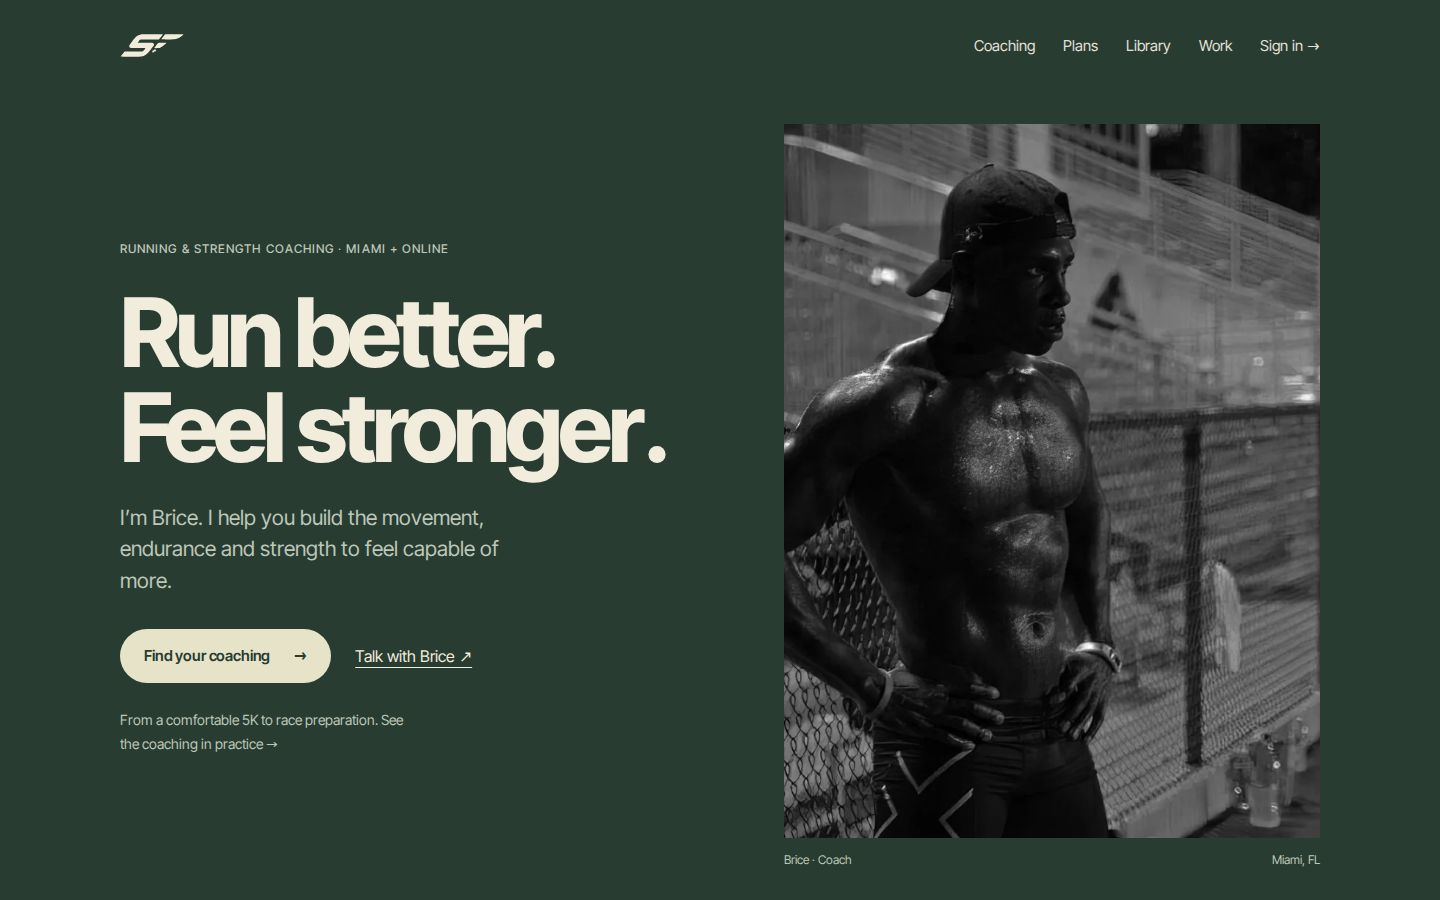
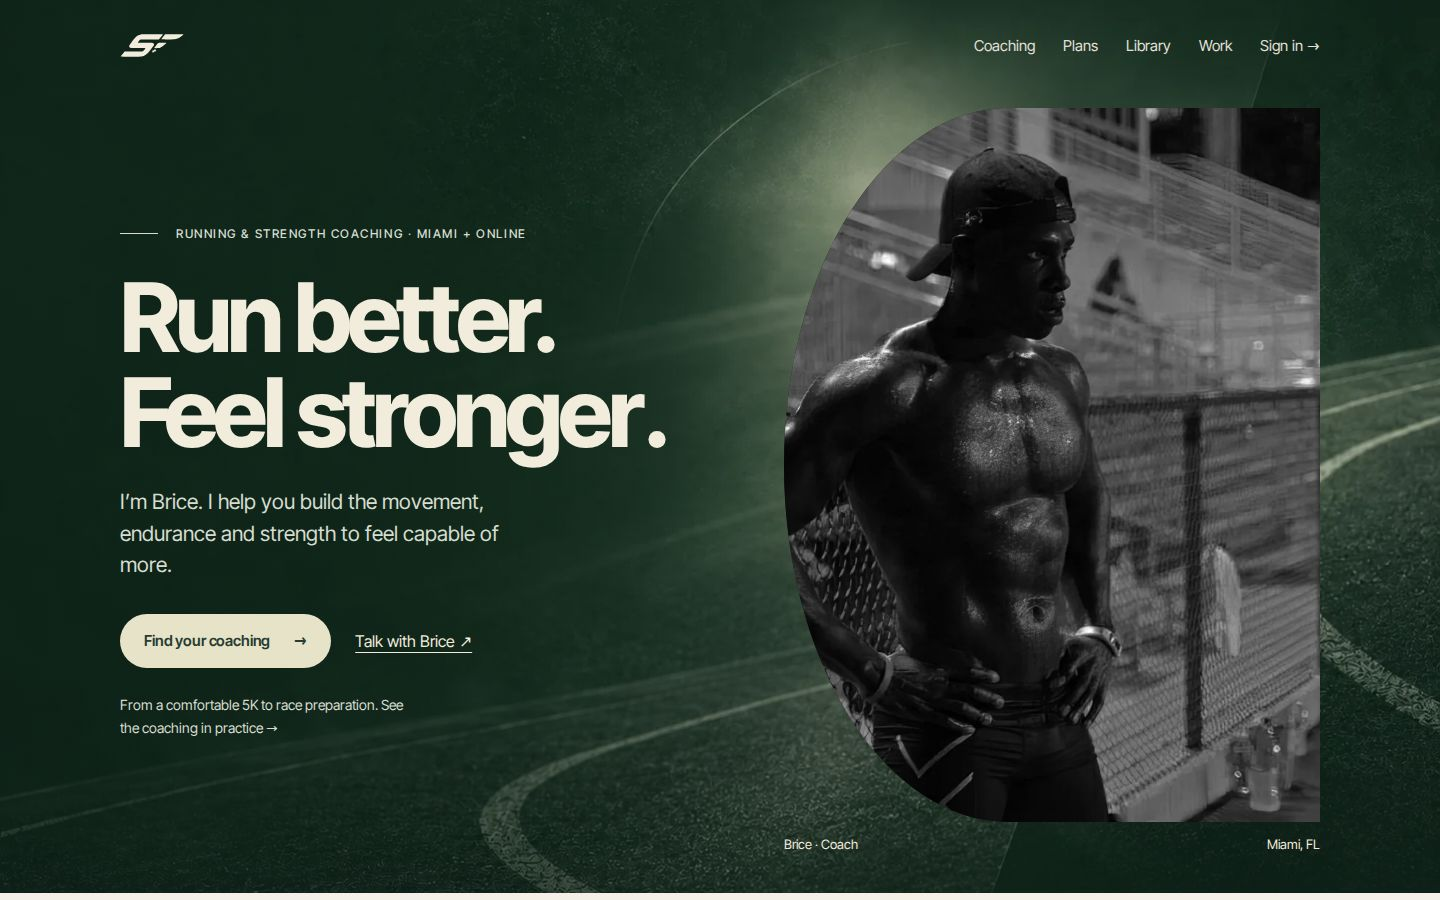
Add supplied track atmosphere and curved original portrait

diff --git a/index.html b/index.html
@@ -11,6 +11,7 @@
 <link rel="apple-touch-icon" href="/apple-touch-icon.png">
 <meta name="theme-color" content="#283c32">
 <link rel="preload" as="image" href="/assets/home/practice/coaching-track.webp" fetchpriority="high">
+<link rel="preload" as="image" href="/assets/home/forest-track-20261001.webp">
 <link rel="preload" as="font" type="font/woff2" href="/assets/site/fonts/inter-tight-latin-variable.woff2" crossorigin>
 <!-- FORM share metadata: pass 1 -->
 <meta property="og:type" content="website">
@@ -105,11 +106,12 @@
 <link rel="stylesheet" href="/css/coaching-choice.css?v=20260916-picker">
 <script defer src="/js/coaching-measurement.js?v=20260930"></script>
 <link rel="stylesheet" href="/css/sf-brand.css?v=20261001">
-<link rel="stylesheet" href="/css/home-commercial.css?v=20261001">
+<link rel="stylesheet" href="/css/home-commercial.css?v=20261001-track">
 <script defer src="/js/commercial-inquiry.js?v=20260930"></script>
 </head>
 <body data-coaching-copy="20260927-gait-retraining">
 <a class="skip-link" href="#main-content">Skip to content</a>
+<div class="home-opening">
 <header class="header">
   <div class="wrap header-inner">
     <a href="/" class="sf-brand" aria-label="Speed and Form home"></a>
@@ -129,9 +131,10 @@
       <div class="hero-actions"><a href="#coaching" class="begin">Find your coaching <span aria-hidden="true">→</span></a><a class="home-hero-secondary" href="#begin">Talk with Brice ↗</a></div>
       <p class="home-hero-note">From a comfortable 5K to race preparation. <a href="/coaching/miami/#coaching-examples">See the coaching in practice →</a></p>
     </div>
-    <figure class="home-hero-photo"><div class="home-portrait"><img src="/assets/home/practice/coaching-track.webp" width="2048" height="1289" alt="Brice standing with his hands on his hips beside the track in Miami" fetchpriority="high"></div><figcaption>Brice · Coach <span>Miami, FL</span></figcaption></figure>
+    <figure class="home-hero-photo"><div class="home-portrait home-portrait-curve"><img src="/assets/home/practice/coaching-track.webp" width="2048" height="1289" alt="Brice standing with his hands on his hips beside the track in Miami" fetchpriority="high"></div><figcaption>Brice · Coach <span>Miami, FL</span></figcaption></figure>
   </div>
 </section>
+</div>
 <section class="home-paths" id="coaching" aria-label="Find your starting point"><div class="wrap home-path-grid"><a href="/coaching/miami/"><span>01 / Running</span><strong>Build your running <b aria-hidden="true">↗</b></strong><small>Individual coaching · Miami &amp; online</small></a><a href="/coaching/strength/"><span>02 / Strength</span><strong>Get stronger with a coach <b aria-hidden="true">↗</b></strong><small>Personal training · Miami</small></a><a href="/analysis/"><span>03 / A focused review</span><strong>Understand your running <b aria-hidden="true">↗</b></strong><small>FORM Analysis · Remote</small></a></div></section>
 
 <section class="practice" id="practice">

diff --git a/css/home-commercial.css b/css/home-commercial.css
@@ -19,3 +19,15 @@
 .header-inner,.header-right,.footer-top{flex-wrap:wrap}
 .hero-actions>a,.cta{max-width:100%}
 .ticks{color:var(--body)}
+
+/* Owner-supplied track atmosphere belongs only to the opening view. */
+.home-opening{background-color:#163023;background-image:linear-gradient(180deg,rgba(12,31,22,.14),rgba(12,31,22,.08) 55%,rgba(12,31,22,.65)),linear-gradient(90deg,rgba(12,31,22,.38),rgba(12,31,22,0) 65%),url('/assets/home/forest-track-20261001.webp');background-size:cover;background-position:center}
+.home-opening .header,.home-opening .sf-home-hero{background:transparent}
+.home-opening .sf-home-hero{padding-top:18px;padding-bottom:38px}
+.home-opening .hero-kicker{display:flex;align-items:center;gap:18px;color:#d6ddd0;letter-spacing:.13em}
+.home-opening .hero-kicker::before{content:"";display:block;width:38px;height:1px;background:currentColor;flex-shrink:0}
+.home-opening .home-hero-intro,.home-opening .home-hero-note{color:#d6ddd0}
+/* A curved left edge, entirely in CSS. Original portrait pixels remain unchanged. */
+.home-portrait-curve{border-top-left-radius:42% 50%;border-bottom-left-radius:42% 50%}
+.home-opening .home-hero-photo figcaption{color:var(--bone);font-size:13px}
+@media(max-width:600px){.home-opening{background-position:58% center;background-image:linear-gradient(180deg,rgba(8,28,18,.82),rgba(8,28,18,.76) 48%,rgba(8,28,18,.22) 65%,rgba(8,28,18,.55)),url('/assets/home/forest-track-20261001.webp')}.home-opening .sf-home-hero{padding-top:20px;padding-bottom:28px}.home-opening .hero-kicker{gap:14px}.home-opening .hero-kicker::before{width:28px}.home-opening .home-hero-photo figcaption{font-size:12px}}

diff --git a/docs/audits/SURFACE-AUDIT-RESULTS.md b/docs/audits/SURFACE-AUDIT-RESULTS.md
@@ -1,6 +1,6 @@
 # October 1, 2026: public house refresh and audit
 
-Owner authorization: publish the approved forest-and-chalk direction and improved Brice portrait crop, with the SF emblem alone in public headers and footers. The offset backing and clipped-corner experiments were rejected. Stronger photographic art direction remains open.
+Owner authorization: publish the approved forest-and-chalk direction and improved Brice portrait crop, with the SF emblem alone in public headers and footers. The offset backing and clipped-corner experiments were rejected. Before publication, Brice supplied a track background and asked to borrow the mockup’s treatment with a curved left edge while preserving the original photograph. This is now the first-fold treatment.
 
 Source base: `be9422c` on `origin/main`, including the concurrent October 1 Adrian and Speed That Endures publications. Release branch: `work/forest-chalk-20261001`. This report records local verification; the release receipt below must be completed after production is inspected.
 
@@ -31,8 +31,14 @@ Source base: `be9422c` on `origin/main`, including the concurrent October 1 Adri
 
 ## Limits and next action
 
-Physical iPhone/Android use is not claimed. Purchases, production inquiry delivery, private Console and native-app flows were not exercised. Public-data schedule behavior was checked with controlled fixtures, not used to invent a current gathering. Photo-edge drama remains a creative follow-up; the rejected treatments are not in this release.
+Physical iPhone/Android use is not claimed. Purchases, production inquiry delivery, private Console and native-app flows were not exercised. Public-data schedule behavior was checked with controlled fixtures, not used to invent a current gathering. The owner’s subsequent track background and CSS curve provide the first-fold treatment. The rejected backing/chamfer and generated portrait are not used.
+
+## First-fold follow-up
+
+Brice’s 9:54 AM New York follow-up supplies the background and asks for a curved left photo edge. The background is optimized from a 2.93 MB PNG to a 105 KB WebP at the same 1448×1086 dimensions. No track content is redrawn; the original portrait remains byte-for-byte unchanged. Header and hero share the background, with a dark overlay behind text. Existing copy, calls to action, account navigation and page order remain. Only the fine kicker rule and curved framing are borrowed from the mockup; extra slogans and the regenerated person are excluded.
+
+The initial phone crop put the bright mist behind the text. A stronger mobile-only overlay fixes that without darkening the desktop composition. Rendered-background sampling under text at 390/1440 px measured minimum contrast of 5.75:1 / 8.07:1 after the fix. Chromium’s complete responsive/inquiry suite passes on the combined build, including 200% text. [Phone first fold](20261001-house/home-phone.jpg) shows the mobile treatment.
 
 ## Release receipt
 
-Pending merge, cross-browser CI and production inspection. Source and screenshots alone are not evidence of publication.
+Base refresh: PR #190 merged as `564e2ed860fd3ac0efad520199a4b5319bc1fc0b`. Tested head `e31d03b1b7a09016166fe026c73cc346bfc0de4c` and tree `2d653744b6a5700c6cb5aa17e95c97e783344eed`; Chromium/WebKit workflow `36871882955`, ecosystem closure and RPD source-truth checks all passed. Publication was held to incorporate the owner’s first-fold follow-up. The combined production receipt follows after inspection; a merge alone is not publication.

diff --git a/docs/BRAND.md b/docs/BRAND.md
@@ -39,7 +39,7 @@ The public home link is the emblem alone, with an accessible name. Do not place 
 - Brice's voice is short, specific and human. First person when it is him. No corporate "we believe" language.
 - Approved coaching descriptor: **RUN DEVELOPMENT · GAIT RETRAINING · PROGRAMMING**. Use it as a quiet supporting line on coaching surfaces after the main promise is clear. `Run Development` stays the umbrella; `gait retraining` names deliberate movement change; `programming` names the authored training structure.
 - Photography is real: real athletes, real sessions, real Miami. No stock. The homepage introduction uses Brice’s original black-and-white hands-on-hips track photograph (`assets/home/practice/coaching-track.webp`), framed by CSS. Marcus and Saul’s side-by-side track photograph remains in the practice section. Do not regenerate, retouch identity, or invent a photograph of Brice.
-- The October 1 portrait crop is approved as a starting point. Brice rejected the offset chalk backing and chamfered corner; stronger photographic art direction remains open. Do not mistake either rejected treatment for an approved brand motif.
+- October 1 follow-up: Brice supplied “Misty Green Track in Motion(1).png” and a dramatic first-fold mockup. Use the supplied track background only in the opening header/hero, with a quiet left side for the copy, a fine kicker rule and a curved CSS edge on the left of the original photograph. The shipped WebP is a format/size optimization of that background, not newly generated artwork. The portrait itself remains the original source. The offset chalk backing and chamfered corner remain rejected. Do not borrow unapproved slogans or the regenerated person from the mockup.
 - Motion arrives once and then gets out of the way.
 - No decorative glitch, HUD or scanline systems. **Exception:** the homepage hero film may retain a subtle scanline/grain treatment when it materially improves imperfect source footage. That exception belongs to the film, not the interface.
 - Plain punctuation in new authored copy. Avoid ornamental em dashes when a period, comma or colon reads better.

diff --git a/docs/roadmap/FORM-ROADMAP.md b/docs/roadmap/FORM-ROADMAP.md
@@ -8,8 +8,10 @@ Owner authorized publication of the approved palette, emblem-only headers/footer
 - [x] Forest/chalk applied to home, contact and six services; original Brice image replaces the mismatched personal introduction; Marcus and Saul remain in the practice section. No rejected portrait backing or chamfer.
 - [x] Brand authority, public build and share card aligned. Incorrect strength-photo identification, weak label contrast, contact radio focus and homepage 200% text overflow corrected.
 - [x] Exact static build, ten source suites, Chromium responsive/inquiry checks, broader public-route render review and automated accessibility checks passed. See the audit for scope and limits.
-- [ ] Complete Chromium/WebKit CI, record tested commit and inspect actual production after the authorized release.
-- [ ] Physical-phone review and a more dramatic photographic treatment remain separate follow-ups.
+- [x] Base refresh merged in PR #190 after Chromium/WebKit, ecosystem closure and RPD source-truth checks passed.
+- [x] Owner’s pre-publication follow-up incorporated: supplied track background, fine kicker rule and a curved CSS left photo edge. The original portrait is not regenerated.
+- [ ] Verify the combined first-fold follow-up and inspect actual production after the authorized release.
+- [ ] Physical-phone review remains a separate follow-up.
 
 
 ## October 1 - Speed That Endures: recovery is part of the result
